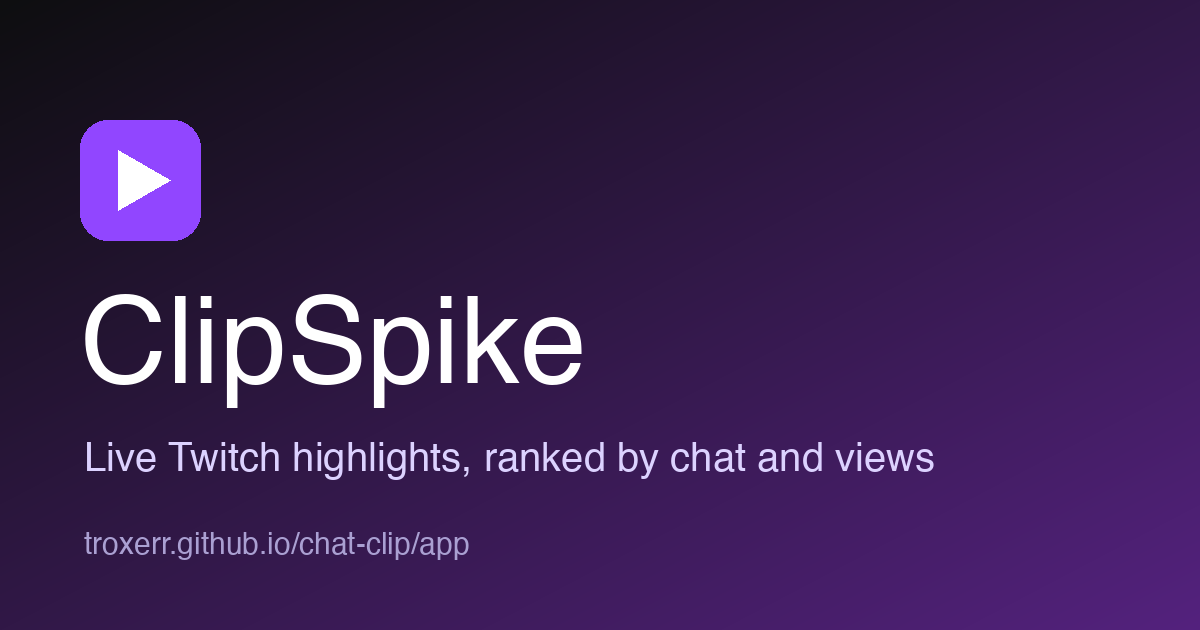
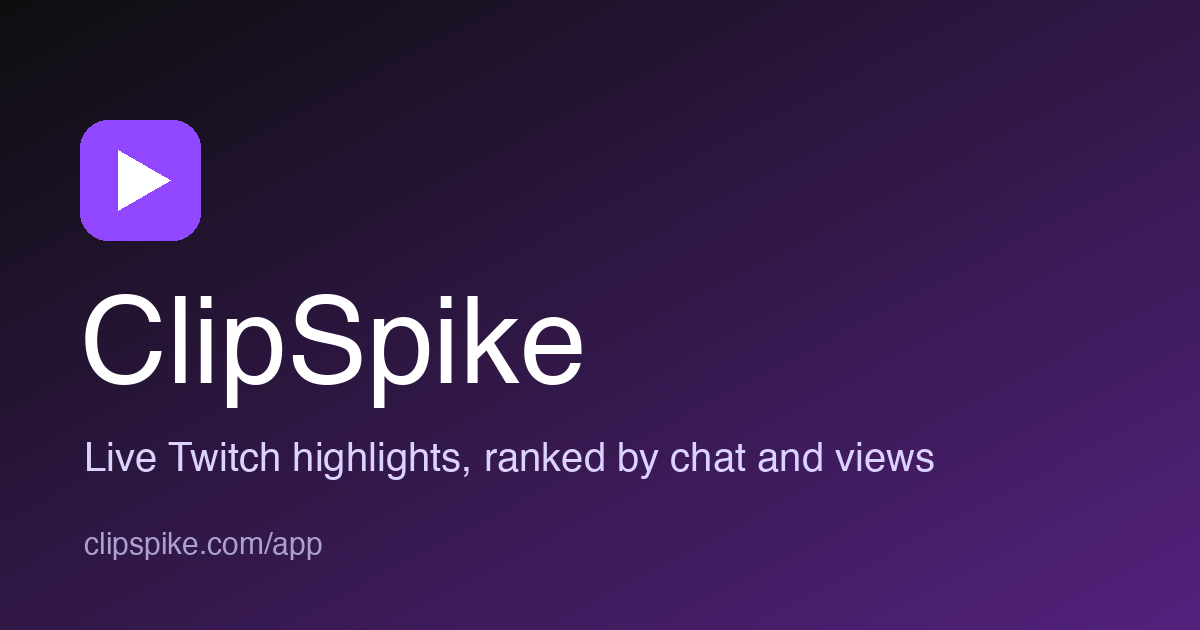
Serve site and web app from clipspike.com

Changed region(s): [[0.0617, 0.8444, 0.4008, 0.9048]]

diff --git a/web/index.html b/web/index.html
@@ -7,20 +7,20 @@
     <meta name="theme-color" content="#0e0e10" />
     <title>ClipSpike — Live Highlights</title>
     <meta name="description" content="Live Twitch highlights, ranked by chat activity and views." />
-    <link rel="canonical" href="https://troxerr.github.io/chat-clip/app/" />
+    <link rel="canonical" href="https://clipspike.com/app/" />
     <meta property="og:type" content="website" />
     <meta property="og:site_name" content="ClipSpike" />
     <meta property="og:title" content="ClipSpike — Live Highlights" />
     <meta property="og:description" content="Live Twitch highlights, ranked by chat activity and views." />
-    <meta property="og:url" content="https://troxerr.github.io/chat-clip/app/" />
-    <meta property="og:image" content="https://troxerr.github.io/chat-clip/app/og-image.png" />
+    <meta property="og:url" content="https://clipspike.com/app/" />
+    <meta property="og:image" content="https://clipspike.com/app/og-image.png" />
     <meta property="og:image:width" content="1200" />
     <meta property="og:image:height" content="630" />
     <meta property="og:image:alt" content="ClipSpike — live Twitch highlights" />
     <meta name="twitter:card" content="summary_large_image" />
     <meta name="twitter:title" content="ClipSpike — Live Highlights" />
     <meta name="twitter:description" content="Live Twitch highlights, ranked by chat activity and views." />
-    <meta name="twitter:image" content="https://troxerr.github.io/chat-clip/app/og-image.png" />
+    <meta name="twitter:image" content="https://clipspike.com/app/og-image.png" />
     <link rel="preconnect" href="https://fonts.googleapis.com" />
     <link href="https://fonts.googleapis.com/css2?family=Bricolage+Grotesque:opsz,wght@12..96,600;12..96,800&family=Inter:wght@400;500;600&display=swap" rel="stylesheet" />
   </head>

diff --git a/web/src/components/ClipPlayer.test.tsx b/web/src/components/ClipPlayer.test.tsx
@@ -15,7 +15,7 @@ const base: Clip = {
 describe('ClipPlayer', () => {
   it('builds the embed url with both parents', () => {
     expect(clipEmbedUrl('AbcSlug')).toBe(
-      'https://clips.twitch.tv/embed?clip=AbcSlug&parent=troxerr.github.io&parent=localhost&autoplay=true',
+      'https://clips.twitch.tv/embed?clip=AbcSlug&parent=clipspike.com&parent=www.clipspike.com&parent=troxerr.github.io&parent=localhost&autoplay=true',
     )
   })
 

diff --git a/web/src/lib/embed.ts b/web/src/lib/embed.ts
@@ -1,4 +1,4 @@
-export const EMBED_PARENTS = ['troxerr.github.io', 'localhost']
+export const EMBED_PARENTS = ['clipspike.com', 'www.clipspike.com', 'troxerr.github.io', 'localhost']
 
 export function clipEmbedUrl(slug: string): string {
   const params = new URLSearchParams({ clip: slug })

diff --git a/web/src/lib/share.ts b/web/src/lib/share.ts
@@ -1,4 +1,4 @@
-export const APP_URL = 'https://troxerr.github.io/chat-clip/app/'
+export const APP_URL = 'https://clipspike.com/app/'
 
 export type ShareResult = 'shared' | 'copied' | 'cancelled' | 'failed'
 

diff --git a/web/scripts/generate-og-image.py b/web/scripts/generate-og-image.py
@@ -22,5 +22,5 @@ d.rounded_rectangle((80, 120, 200, 240), 28, fill=(145, 70, 255))
 d.polygon([(118, 150), (118, 210), (170, 180)], fill="white")
 d.text((80, 290), "ClipSpike", font=font(120), fill="white")
 d.text((84, 440), "Live Twitch highlights, ranked by chat and views", font=font(40), fill=(220, 210, 255))
-d.text((84, 530), "troxerr.github.io/chat-clip/app", font=font(30), fill=(170, 160, 210))
+d.text((84, 530), "clipspike.com/app", font=font(30), fill=(170, 160, 210))
 img.save(os.path.join(os.path.dirname(__file__), "..", "public", "og-image.png"), optimize=True)

diff --git a/mac/main.m b/mac/main.m
@@ -18,7 +18,7 @@
 #define HD_SPARKLE 1
 #endif
 
-static NSString *const kDashboardURL = @"https://troxerr.github.io/chat-clip/";
+static NSString *const kDashboardURL = @"https://clipspike.com/";
 static NSString *const kDropboxHomeURL = @"https://www.dropbox.com/home";
 static NSString *const kGoogleDriveHomeURL = @"https://drive.google.com";
 static NSString *const kKeychainService = @"com.clipspike.app.credentials";

diff --git a/web/README.md b/web/README.md
@@ -20,16 +20,16 @@ npm run preview  # serve the production build
 
 `.github/workflows/pages.yml` runs on pushes to `main` that touch `web/**` or `site/**`
 (or manually). Pages allows one deployment per repo, so the workflow builds this app with
-`VITE_BASE=/chat-clip/app/` and publishes it alongside the marketing `site/`:
+`VITE_BASE=/app/` and publishes it alongside the marketing `site/`:
 
-- Marketing site: https://troxerr.github.io/chat-clip/
-- Web app: https://troxerr.github.io/chat-clip/app/
+- Marketing site: https://clipspike.com/
+- Web app: https://clipspike.com/app/
 
-Client-side routing: the app uses `HashRouter` (URLs like `/chat-clip/app/#/clips`), so deep
+Client-side routing: the app uses `HashRouter` (URLs like `/app/#/clips`), so deep
 links work on GitHub Pages without server rewrites or a 404 fallback.
 
 Pages is already enabled with the "GitHub Actions" source. To test locally:
-`VITE_BASE=/chat-clip/app/ npm run build && VITE_BASE=/chat-clip/app/ npm run preview`.
+`VITE_BASE=/app/ npm run build && VITE_BASE=/app/ npm run preview`.
 
 ## Streamers
 
@@ -59,7 +59,7 @@ gitignored and generated at deploy time, so nothing is committed on each run.
 ## Sharing and link previews
 
 `index.html` carries Open Graph / Twitter card tags (absolute URLs under
-`https://troxerr.github.io/chat-clip/app/`) and `public/og-image.png` (1200x630, regenerate with
+`https://clipspike.com/app/`) and `public/og-image.png` (1200x630, regenerate with
 `python3 scripts/generate-og-image.py`).
 
 **Crawlers don't see hash routes.** Everything after `#` is never sent to the server, so every
